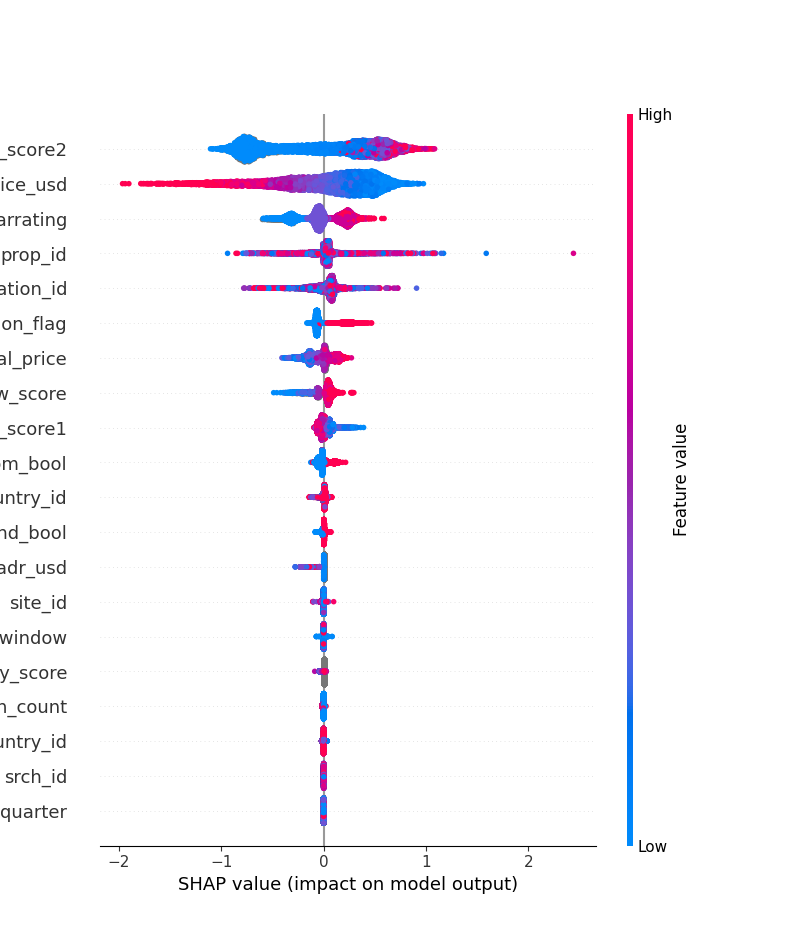
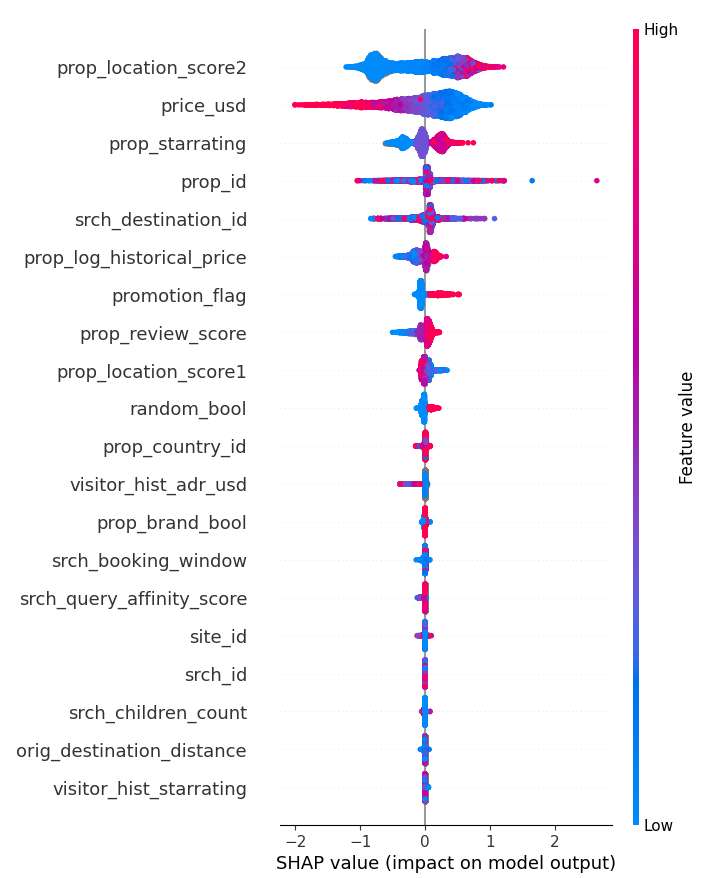
streamlit is now functional!

diff --git a/app.py b/app.py
@@ -1,24 +1,178 @@
 # %%
-import streamlit as st
+import numpy as np
 import pandas as pd
-
-
+import streamlit as st
+import lightgbm as lgbm
+import shap
 
 def load_data(nrows):
-    data = pd.read_csv('data/stored/test_sample.csv', nrows=nrows)
+    data = pd.read_csv('data/stored/X_test_sample.csv', nrows=nrows)
     return data
+
+
+def load_model(path):
+    lgbm_str = open(path, "r").read()
+    model = lgbm.Booster(model_str=lgbm_str)
+    return model
 
 st.title('Hotel search ranker webapp')
 
-# Create a text element and let the reader know the data is loading.
-data_load_state = st.text('Loading data...')
-# Load 10,000 rows of data into the dataframe.
-data = load_data(10000)
-# Notify the reader that the data was successfully loaded.
-data_load_state.text('Loading data...done!')
-    
-    
+
+df = load_data(10000)
 
 
+# FIXED
+search_id = 0
+visitor_hist_starrating = np.nan
+visitor_hist_adr_usd = np.nan
+anomaly = -0.44199505659659266
+random_bool = 0
+promotion_flag = 0
+srch_saturday_night_bool = 0
+srch_query_affinity_score = -50
+orig_destination_distance = 1000
+day_of_week = 4
+month = 11
+
+
+# FLEX
+site_id = st.selectbox(
+    'site id?',
+    np.sort(df['site_id'].unique())
+)
+visitor_location_country_id = st.selectbox(
+    'visitor_location_country id?',
+    np.sort(df['visitor_location_country_id'].unique())
+)
+prop_country_id = st.selectbox(
+    'prop_country_id?',
+    np.sort(df['prop_country_id'].unique())
+)
+prop_id = st.selectbox(
+    'prop_id ',
+    np.sort(df['prop_id'].unique())
+)
+prop_starrating = st.radio(
+    'prop_starrating?',
+    np.sort(df['prop_starrating'].unique())
+)
+prop_review_score = st.radio(
+    'prop_review_score',
+    np.sort(df['prop_review_score'].unique())
+)
+prop_brand_bool = st.radio(
+    'prop_brand_bool',
+    np.sort(df['prop_brand_bool'].unique())
+)
+prop_location_score1 = st.slider(
+    'prop_location_score1',
+    min_value=0.0,
+    max_value=7.0,
+    step=0.5
+)
+prop_location_score2 = st.slider(
+    'prop_location_score2',
+    min_value=0.0, 
+    max_value=1.0,
+    step=0.05
+)
+prop_log_historical_price = st.slider(
+    'prop_log_historical_price',
+    min_value=3.0, 
+    max_value=6.0,
+    step=0.5
+)
+price_usd = st.slider(
+    'price_usd',
+    min_value=20,
+    max_value=500,
+    step=20
+)
+srch_destination_id = st.selectbox(
+    'srch_destination_id',
+    np.sort(df['srch_destination_id'].unique())
+)
+srch_length_of_stay = st.selectbox(
+    'srch_length_of_stay',
+    np.sort(df['srch_length_of_stay'].unique())
+)
+srch_booking_window = st.slider(
+    'srch_booking_window',
+    min_value=1, 
+    max_value=90,
+    step=1
+)
+srch_adults_count = st.selectbox(
+    'srch_adults_count',
+    np.sort(df['srch_adults_count'].unique())
+)
+srch_children_count = st.selectbox(
+    'srch_children_count',
+    np.sort(df['srch_children_count'].unique())
+)
+srch_room_count = st.selectbox(
+    'srch_room_count',
+    np.sort(df['srch_room_count'].unique())
+)
+
+input_list = [
+    0, site_id, visitor_location_country_id,
+    visitor_hist_starrating, visitor_hist_adr_usd, prop_country_id,
+    prop_id, prop_starrating, prop_review_score, prop_brand_bool,
+    prop_location_score1, prop_location_score2,
+    prop_log_historical_price, price_usd, promotion_flag,
+    srch_destination_id, srch_length_of_stay, srch_booking_window,
+    srch_adults_count, srch_children_count, srch_room_count,
+    srch_saturday_night_bool, srch_query_affinity_score,
+    orig_destination_distance, random_bool, day_of_week, month, anomaly
+]
 
 # %%
+st.title('Model output')
+
+model = load_model(path="model/lgbm.txt")
+output = model.predict(pd.DataFrame(input_list).T)
+st.write('rank score is: ', output[0])
+
+shap_values = np.load('model/shap_values.npy')
+
+st.write('local interpretation will be added later ;) an impression of what to expect below')
+st.image('plots/SHAP_ex.png')
+
+st.title('Global model Interpretation')
+st.image('plots/SHAP.png')
+
+
+st.title('Model inputs (for validation)')
+st.write('Variable inputs')
+st.write('You selected site_id: ', site_id)
+st.write('You selected visitor_location_country_id: ', visitor_location_country_id)
+st.write('You selected country_id: ', prop_country_id)
+st.write('You selected prop_id: ', prop_id)
+st.write('You selected prop_starrating: ', prop_starrating)
+st.write('You selected prop_review_score: ', prop_review_score)
+st.write('You selected prop_brand_bool: ', prop_brand_bool)
+st.write('You selected prop_location_score1: ', prop_location_score1)
+st.write('You selected prop_location_score2: ', prop_location_score2)
+st.write('You selected prop_log_historical_price: ', prop_log_historical_price)
+st.write('You selected price_usd: ', price_usd)
+st.write('You selected srch_destination_id: ', srch_destination_id)
+st.write('You selected srch_booking_window: ', srch_booking_window)
+st.write('You selected srch_adults_count: ', srch_adults_count)
+st.write('You selected srch_children_count: ', srch_children_count)
+st.write('You selected srch_room_count: ', srch_room_count)
+st.write('You selected srch_query_affinity_score: ', srch_query_affinity_score)
+st.write('You selected orig_destination_distance: ', orig_destination_distance)
+
+st.write('----------------------------------------')
+st.write('Fixed inputs are set to')
+st.write('visitor_hist_starrating: ', visitor_hist_starrating)
+st.write('visitor_hist_adr_usd: ', visitor_hist_adr_usd)
+st.write('anomaly: ', anomaly)
+st.write('random_bool: ', random_bool)
+st.write('promotion_flag: ', promotion_flag)
+st.write('srch_saturday_night_bool: ', srch_saturday_night_bool)
+st.write('srch_query_affinity_score: ', srch_query_affinity_score)
+st.write('orig_destination_distance: ', orig_destination_distance)
+st.write('day_of_week: ', day_of_week)
+st.write('month: ', month)

diff --git a/main.py b/main.py
@@ -17,9 +17,8 @@ if __name__ == "__main__":
     df = data.read_data("data/input/bookings.csv")
     df_processed = data.process(df)
 
-    # Split data in 3 sets (70/20/10%) and store test sample
+    # Split data in 3 sets (70/20/10%)
     df_train, df_val, df_test = data.split_data(df_processed)
-    # data.save_data(df_test, path="data/stored/test_sample.csv", nrows=10000)
 
     X_train, y_train = data.split_Xy(df_train)
     X_val, y_val = data.split_Xy(df_val)
@@ -33,6 +32,9 @@ if __name__ == "__main__":
     X_train, X_val, X_test = model.anomaly_score(
         on_columns, X_train, X_val, X_test
     )
+
+    # NOTE: only for convienience to load into streamlit
+    data.save_data(X_test, path="data/stored/X_test_sample.csv", nrows=10000)
 
     # Transform X data to LightGBM Dataset format
     train_data = model.pandas_to_lgbm(X_train, y_train)

diff --git a/src/processing.py b/src/processing.py
@@ -26,7 +26,8 @@ class Processor(object):
         """DataFrame processing pipeline of basic operations"""
         self.logger.info("Processing the data")
         df_processed = (
-            df.pipe(self._parse_dates)
+            df
+            .pipe(self._parse_dates)
             .pipe(self._drop_cols_logic)
             .pipe(self._drop_cols_comp)
             .pipe(self._fill_zeros)
@@ -103,7 +104,6 @@ class Processor(object):
         df_parsed = df_dt.assign(
             day_of_week=df_dt["date_time"].dt.dayofweek + 1,
             month=df_dt["date_time"].dt.month,
-            quarter=df_dt["date_time"].dt.quarter,
         )
         return df_parsed
 

diff --git a/src/modelling.py b/src/modelling.py
@@ -68,7 +68,7 @@ class Recommender(object):
         X_train = X_train.assign(anomaly=od.score_samples(X_train_reduced))
         X_val = X_val.assign(anomaly=od.score_samples(X_val_reduced))
         X_test = X_test.assign(anomaly=od.score_samples(X_test_reduced))
-        self.logger.info("Anomaly scores appended")
+        self.logger.info(f"Anomaly scores appended, mean: {X_train['anomaly'].mean()}")
         return X_train, X_val, X_test
 
     def fit(self, lgbm_train: Dataset, lgbm_val: Dataset) -> None:
